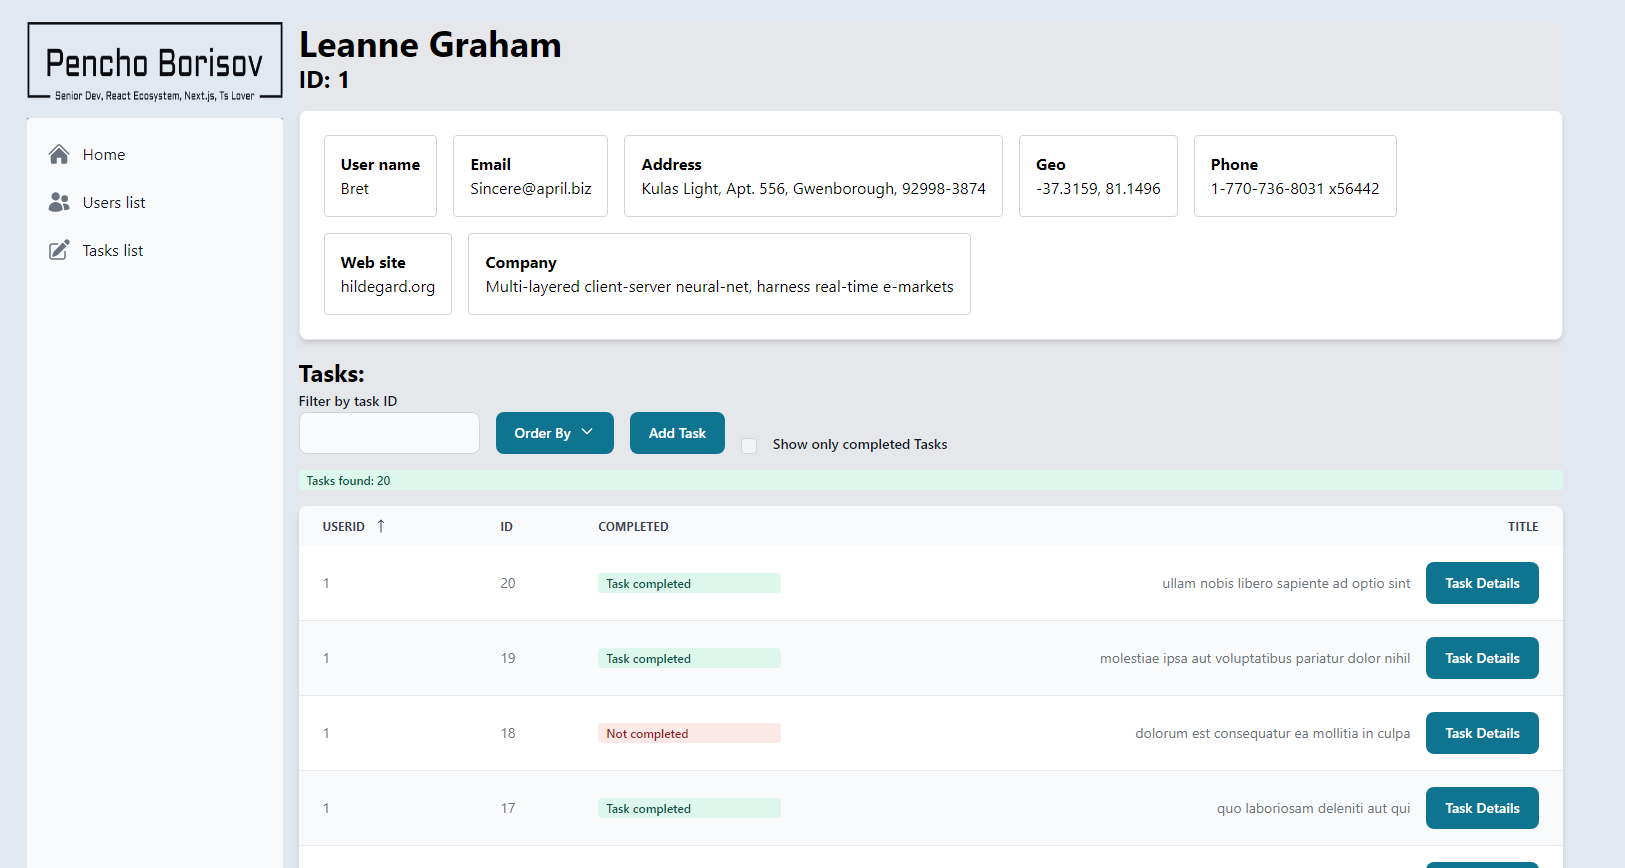
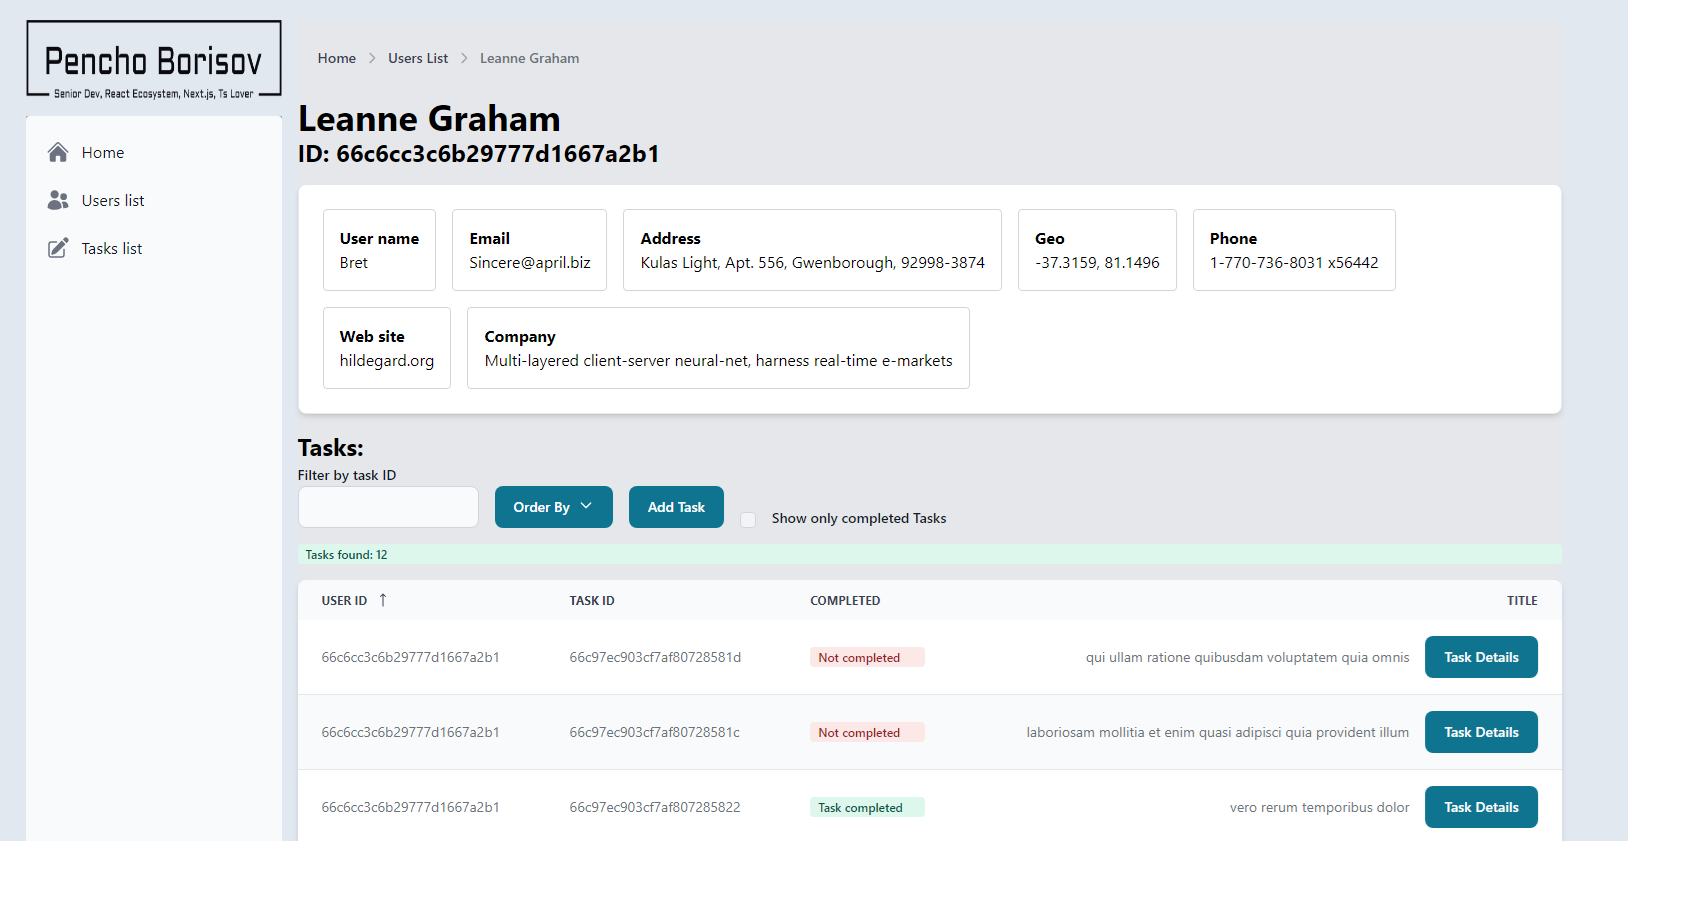
New user breadcrumb

diff --git a/next-typescript-todo-app/src/app/users/addUser/page.tsx b/next-typescript-todo-app/src/app/users/addUser/page.tsx
@@ -1,9 +1,19 @@
 "use client";
 
 import { AddUserForm } from "./AddUserForm";
+import { BreadcrumbComponent } from "@components/index";
+import { useNav } from "@hooks/index";
 
 const Page = () => {
-  return <AddUserForm />;
+  const {
+    paths: { HOME, USERS },
+  } = useNav();
+  return (
+    <>
+      <BreadcrumbComponent breadcrumbItems={[HOME, USERS]} />
+      <AddUserForm />
+    </>
+  );
 };
 
 export default Page;

diff --git a/next-typescript-todo-app/src/app/tasks/(task-details)/[id]/__tests__/taskDetails.test.tsx b/next-typescript-todo-app/src/app/tasks/(task-details)/[id]/__tests__/taskDetails.test.tsx
@@ -23,7 +23,7 @@ describe("Render TaskDetails", () => {
   it("render component", () => {
     const form = render(
       <Provider store={store}>
-        <TaskDetails taskId={1} />
+        <TaskDetails taskId={"1"} />
       </Provider>,
     );
     expect(form).toBeDefined();

diff --git a/next-typescript-todo-app/src/app/tasks/(task-details)/[id]/page.tsx b/next-typescript-todo-app/src/app/tasks/(task-details)/[id]/page.tsx
@@ -4,7 +4,7 @@ import React from "react";
 import { TaskDetails } from "./TaskDetails";
 
 interface Props {
-  params: { id: number };
+  params: { id: string };
 }
 
 const Page = ({ params }: Props) => {

diff --git a/next-typescript-todo-app/README.md b/next-typescript-todo-app/README.md
@@ -2,7 +2,11 @@
 
 Example Tasks application built with Next.js and Typescript
 
+![Home](./public/images/home.png)
+![Users](./public/images/users.png)
+![Tasks](./public/images/tasks.png)
 ![User details](./public/images/user-details.png)
+![Task details](./public/images/task-details.png)
 
 Run `pnpm run dev` to run app locally (`localhost:3000`)
 
